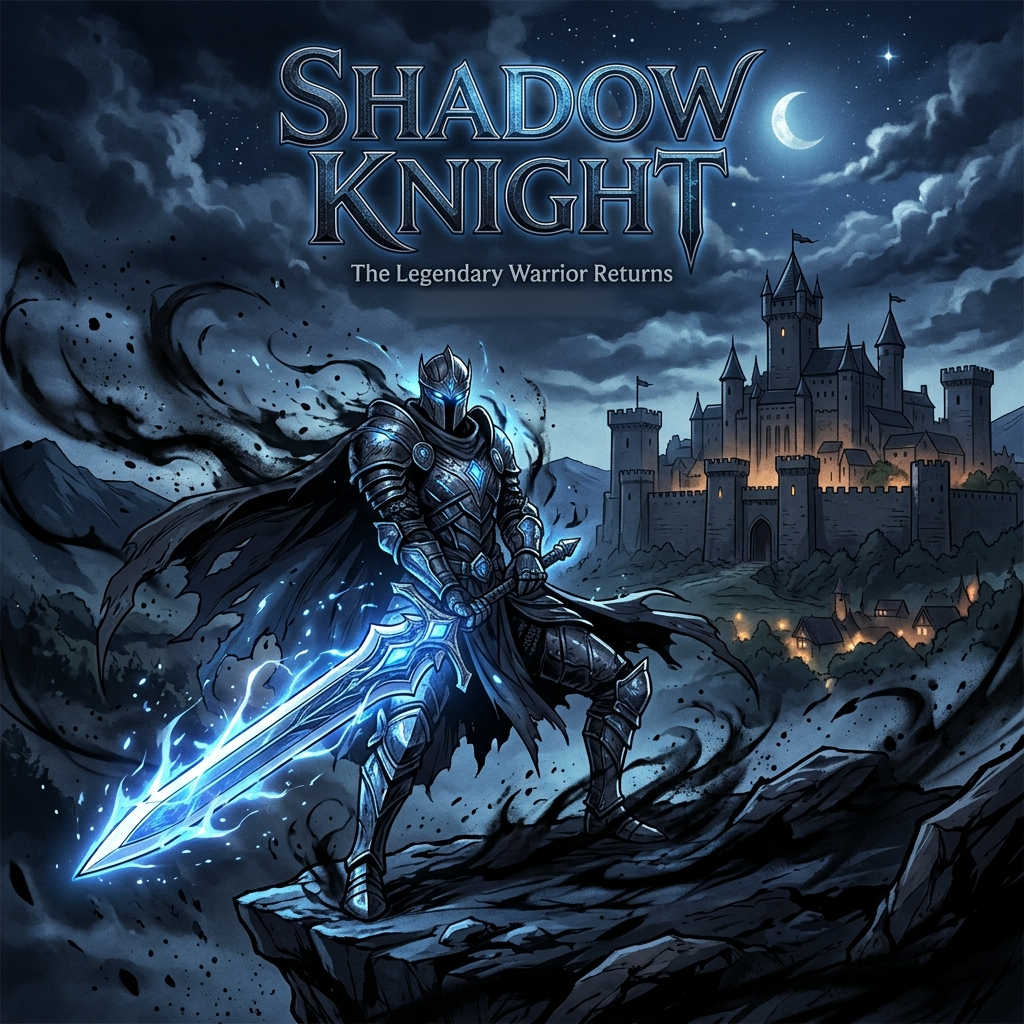
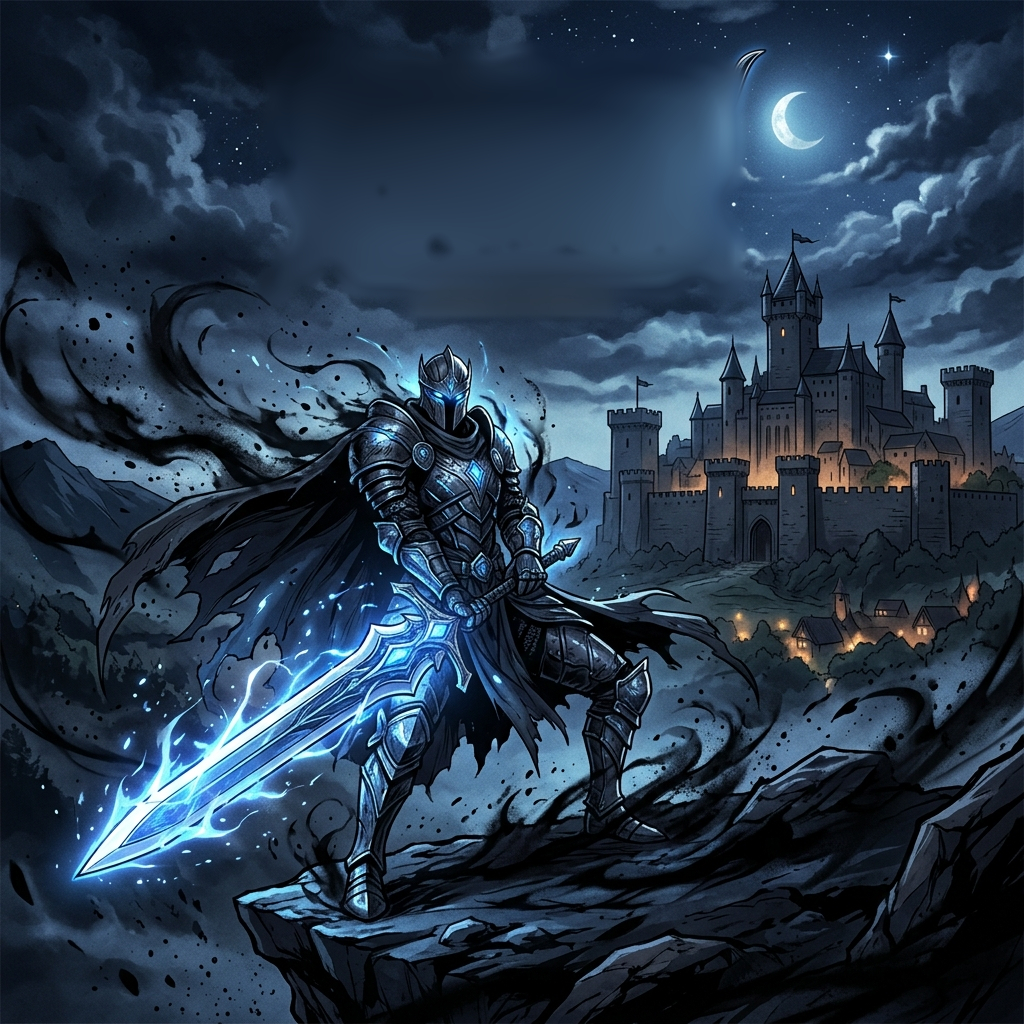
fix: take the titles off Golden Age and Shadow Knight (Impl 234)
Impl 232 skipped these two because Impl 233 was re-rendering them from
their pre-Impl-224 sources at the same time, and recorded them as
untested rather than rejected. Both are erasable. `golden-age` loses
`GOLDEN AGE`, `A Historical Epic` and its flourishes; `shadow-knight`
loses `SHADOW KNIGHT` and `The Legendary Warrior Returns`. Five of nine
covers now carry no baked text at all.

The hedge is the part worth keeping. Impl 232 could have written these
off with the other four and been believed — four of seven titles had
just failed and "needs artwork" was the expected answer. Marking them
untested cost a sentence and was the difference between two shipped
covers and two waiting on an artist who was never needed. Both titles sit
on sky, the condition all three earlier successes shared, and that was
visible from the cover before any masking.

Mask geometry cost three attempts on `golden-age`, and the lesson inverts
Impl 230, 231 and 232, each of which was fixed by dilating wider.

The first mask used two boxes, one for the title and one for the tagline,
and left an uncovered band between them. The title's descenders and their
shadow sat in that gap, half inside the sampling ring and half outside,
and the fill dragged them into dark horizontal streaks across the sky —
invisible at 45% and obvious at 1:1.

The second and third tried to spare the temple's upturned eave, which the
tagline's left flourish sits on: first a polygon exclusion below the eave
[…]

Changed region(s): [[0.25, 0.0312, 0.75, 0.2812]]

diff --git a/wiki/architecture/implementation-phases.md b/wiki/architecture/implementation-phases.md
@@ -263,6 +263,7 @@ Legacy immersive / EDC-era phase log (not SoftGate Comic runtime): [implementati
 | 231  | 2026-09-15 | Title lockup taken off the Love in Seoul cover; 8-bit fill ghosting (#28)      | [2026-09-15-love-in-seoul-lockup-removed.md](../notes/2026-09-15-love-in-seoul-lockup-removed.md)                                                             |
 | 232  | 2026-09-15 | Text erased from three more covers; three left alone with reasons (#28)        | [2026-09-15-remaining-covers-erased.md](../notes/2026-09-15-remaining-covers-erased.md)                                                                       |
 | 233  | 2026-09-15 | Two covers restored to full colour after Impl 224's 256-colour re-encode       | [2026-09-15-cover-encoding-restored.md](../notes/2026-09-15-cover-encoding-restored.md)                                                                       |
+| 234  | 2026-09-15 | Titles off Golden Age and Shadow Knight; five covers now text-free (#28)       | [2026-09-15-golden-age-shadow-knight-titles.md](../notes/2026-09-15-golden-age-shadow-knight-titles.md)                                                       |
 
 ---
 
@@ -2175,9 +2176,17 @@ Worked the rest of [#28](https://github.com/Key9898/soft-gate-comic/issues/28)'s
 
 ---
 
+## Impl Phase 234 — Titles taken off Golden Age and Shadow Knight (2026-09-15)
+
+**Status:** Done
+
+[Impl 232](#impl-phase-232--what-can-be-erased-on-the-remaining-covers-and-what-cannot-2026-09-15) skipped these two because [Impl 233](#impl-phase-233--two-covers-restored-to-full-colour-2026-09-15) was re-rendering them in parallel, and recorded them as **untested, not rejected**. Both turned out erasable: `golden-age` loses `GOLDEN AGE`, `A Historical Epic` and its flourishes, `shadow-knight` loses `SHADOW KNIGHT` and `The Legendary Warrior Returns`, and **five of nine covers now carry no baked text at all**. **The hedge is the transferable part** — Impl 232 could have written these off with the other four and been believed, since four of seven titles had just failed and "needs artwork" was the expected answer; marking them untested cost a sentence and was the difference between two shipped covers and two waiting on an artist who was never needed. Both titles sit on sky, the condition all three earlier successes shared, and that was visible from the cover before any masking. **Mask geometry cost three attempts on `golden-age` and inverts the lesson of Impl 230, 231 and 232**, each of which was fixed by dilating wider. Attempt 1 used two boxes, title and tagline, leaving an uncovered band between them; the title's descenders and shadow sat half in the sampling ring and half out, and the fill **dragged** them into dark horizontal streaks — invisible at 45%, obvious at 1:1. Attempts 2 and 3 tried to spare the temple's upturned eave, which the tagline's left flourish sits on, first with a polygon exclusion below the eave and then by cutting the box's lower edge on the left; **both destroyed more roof, not less**, because excluding dark pixels from the mask _core_ does nothing about the dilation around neighbouring letters sweeping the same region — a narrower core with the same dilation is not a narrower hole. The shipped mask is a single box at dilation 18, wider than either attempt that tried to protect the roof and the one that damages it least. **Dilate wide, but leave no gaps** — two different instructions, and a gap inside a mask is worse than no mask, because half-sampled content is dragged rather than replaced. Verified: `golden-age`'s title box held **12,798 dark pixels before and 331 after** (survivors at `195-297 x 136-160`, the eave corner, not a letterform) with the tagline box **3,157 → 0** and all change inside `674x199+165+24`; `shadow-knight`'s title box **19,658 bright before, 2,545 after** (survivors one blob at the box edge, the moon's glow) with the tagline box **1,851 → 0** and all change inside `503x287+251+24`; no ghosting on either under Impl 231's contrast-stretch probe; outside the patches **59.8 dB and 60.3 dB**, worst pixel 4 and 3 of 255, and both files got _smaller_ (1.32 MB from 1.36, 1.10 MB from 1.18). **Honest limit**: `golden-age`'s eave corner is blurred where the descenders and glow overlapped it — visible at 1:1, invisible at 384px, same class as Impl 232's `CHLOE` patch on the library arch, and the reason the single-box mask shipped over the two that looked more careful and were worse. `shadow-knight` has no structural conflict at all. **Four titles remain and were each attempted and rejected on the result in Impl 232**: `blood-moon` (moon), `ocean-dreams` (mast and rigging), `forest-spirit` (canopy), `the-last-horizon` (constellation field). **207** stays unused. Next is **235**. Note: [2026-09-15-golden-age-shadow-knight-titles.md](../notes/2026-09-15-golden-age-shadow-knight-titles.md).
+
+---
+
 ## How to append
 
-1. Take **next free Impl** (currently **234**).
+1. Take **next free Impl** (currently **235**).
 2. Add a row to Quick index + a `## Impl Phase N` section here.
 3. Mirror in `wiki/notes/YYYY-MM-DD-<slug>.md` and `docs/sessions/YYYY-MM-DD-session-summary.md` with `phases: [N]`.
 4. Lark Title should start with `Impl N — …` for new work going forward (do not backfill historical Lark tasks unless asked).

diff --git a/wiki/notes/2026-09-15-golden-age-shadow-knight-titles.md b/wiki/notes/2026-09-15-golden-age-shadow-knight-titles.md
@@ -1,0 +1,50 @@
+---
+title: Impl 234 — Titles taken off Golden Age and Shadow Knight
+type: note
+date: 2026-09-15
+tags: [portal, covers, branding, images, inpainting, softgate]
+impl: 234
+---
+
+# Impl 234 — Titles taken off Golden Age and Shadow Knight
+
+[Impl 232](2026-09-15-remaining-covers-erased.md) worked the rest of #28's covers but skipped these two, because [Impl 233](2026-09-15-cover-encoding-restored.md) was re-rendering them from their pre-Impl-224 sources at the same time and editing them in parallel would have collided. They were recorded as **untested, not rejected** — the distinction mattered, because both titles turned out to be erasable.
+
+`golden-age.png` loses `GOLDEN AGE`, `A Historical Epic` and its flourishes. `shadow-knight.png` loses `SHADOW KNIGHT` and `The Legendary Warrior Returns`. **Five of nine covers now carry no baked text at all.**
+
+## The hedge was worth making
+
+Impl 232 could have written these off with the other four and been believed — four of seven titles had just failed, and "needs artwork" was the expected answer. Marking them untested cost a sentence and was the difference between two shipped covers and two covers waiting on an artist who was never needed.
+
+Both titles sit on sky, which is the condition all three earlier successes shared. That was visible from the cover before any masking, which is what made "worth attempting" a claim rather than a hope.
+
+## Mask geometry cost three attempts, and inverts an earlier lesson
+
+Every previous failure in this series was fixed by **dilating wider** — Impl 230's drop shadow, Impl 231's glow, Impl 232's bloom. That instruction does not generalise, and `golden-age` is where it broke.
+
+**Attempt 1** used two boxes, one around the title and one around the tagline, and left an uncovered band between them. The title's descenders and their shadow sat in that gap: half in the sampling ring, half out. The fill smeared them into dark horizontal streaks across the sky, invisible at 45% and obvious at 1:1.
+
+**Attempts 2 and 3** tried to spare the temple's upturned eave, which the tagline's left flourish sits on — first by excluding a polygon below the eave line, then by cutting the box's lower edge for the left half. **Both destroyed more of the roof, not less.** Excluding dark pixels from the mask _core_ does nothing about the dilation around neighbouring letters, which sweeps the same region regardless. A narrower core with the same dilation is not a narrower hole.
+
+The shipped mask is a single box with dilation 18 — wider than any of the attempts that tried to protect the roof, and the one that damages it least.
+
+So: **dilate wide, but leave no gaps.** Those are different instructions and the second one is new here. A gap inside a mask is worse than no mask at all, because content that is half-sampled gets dragged rather than replaced.
+
+## Verification
+
+- **`golden-age`** — title box held **12,798 pixels below the 30% dark threshold before, 331 after**. The survivors sit at `195-297 x 136-160`, which is the temple's upturned eave corner, not a letterform. Tagline box: **3,157 → 0**. All change inside `674x199+165+24`.
+- **`shadow-knight`** — title box held **19,658 pixels over the 35% brightness threshold before, 2,545 after**. The survivors are a single blob at the box's right edge: the moon's glow reaching in, which was always there. Tagline box: **1,851 → 0**. All change inside `503x287+251+24`.
+- **No ghosting** on either under contrast stretch ([Impl 231](2026-09-15-love-in-seoul-lockup-removed.md)'s probe).
+- **Outside the patches: 59.8 dB and 60.3 dB**, worst pixel 4 and 3 of 255. Both files got _smaller_ — 1.32 MB from 1.36, and 1.10 MB from 1.18.
+- 791 tests pass; both clean at 192px and 384px.
+
+## Honest limit
+
+`golden-age`'s temple eave corner is blurred where the title's descenders and glow overlapped it. Visible at 1:1, invisible at 384px, and the reason the single-box mask shipped over the two that tried to protect it — they looked more careful and were worse. Same class as [Impl 232](2026-09-15-remaining-covers-erased.md)'s `CHLOE` patch on the library arch: a smooth fill reads as atmosphere on sky, cloud or rock and as damage on a built structure.
+
+`shadow-knight` has no structural conflict. The moon sits clear to the right of the title and the background is night cloud throughout.
+
+## Left open
+
+- **Four titles, each blocked by a specific element behind the text**: `blood-moon` (moon), `ocean-dreams` (mast and rigging), `forest-spirit` (canopy), `the-last-horizon` (constellation field). All four were attempted in Impl 232 and rejected on the result. These need artwork.
+- Everything else in [#28](https://github.com/Key9898/soft-gate-comic/issues/28) and the [brief](../references/cover-artwork-brief.md), which still asks for 3:4 native at 1152x1536 — none of this work changes the aspect ratio or the crop.

diff --git a/wiki/README.md b/wiki/README.md
@@ -271,6 +271,7 @@ When the user asks to remember something (decision, snippet, note, ref), the wik
 - [notes/2026-09-15-love-in-seoul-lockup-removed.md](notes/2026-09-15-love-in-seoul-lockup-removed.md) — Impl 231 title lockup off; 8-bit fill ghosting found by contrast stretch (#28)
 - [notes/2026-09-15-remaining-covers-erased.md](notes/2026-09-15-remaining-covers-erased.md) — Impl 232 three covers lose remaining text; four titles cannot be erased (#28)
 - [notes/2026-09-15-cover-encoding-restored.md](notes/2026-09-15-cover-encoding-restored.md) — Impl 233 two covers back to full colour after Impl 224's 256-colour re-encode (#28)
+- [notes/2026-09-15-golden-age-shadow-knight-titles.md](notes/2026-09-15-golden-age-shadow-knight-titles.md) — Impl 234 titles off Golden Age and Shadow Knight; dilate wide but leave no gaps (#28)
 - [notes/2026-09-08-development-branch.md](notes/2026-09-08-development-branch.md) — git `development` branch for leader dev stack
 - [notes/2026-08-19-catalog-premium-left.md](notes/2026-08-19-catalog-premium-left.md) — Impl 152
 - [notes/2026-08-19-daily.md](notes/2026-08-19-daily.md) — Impl 150
